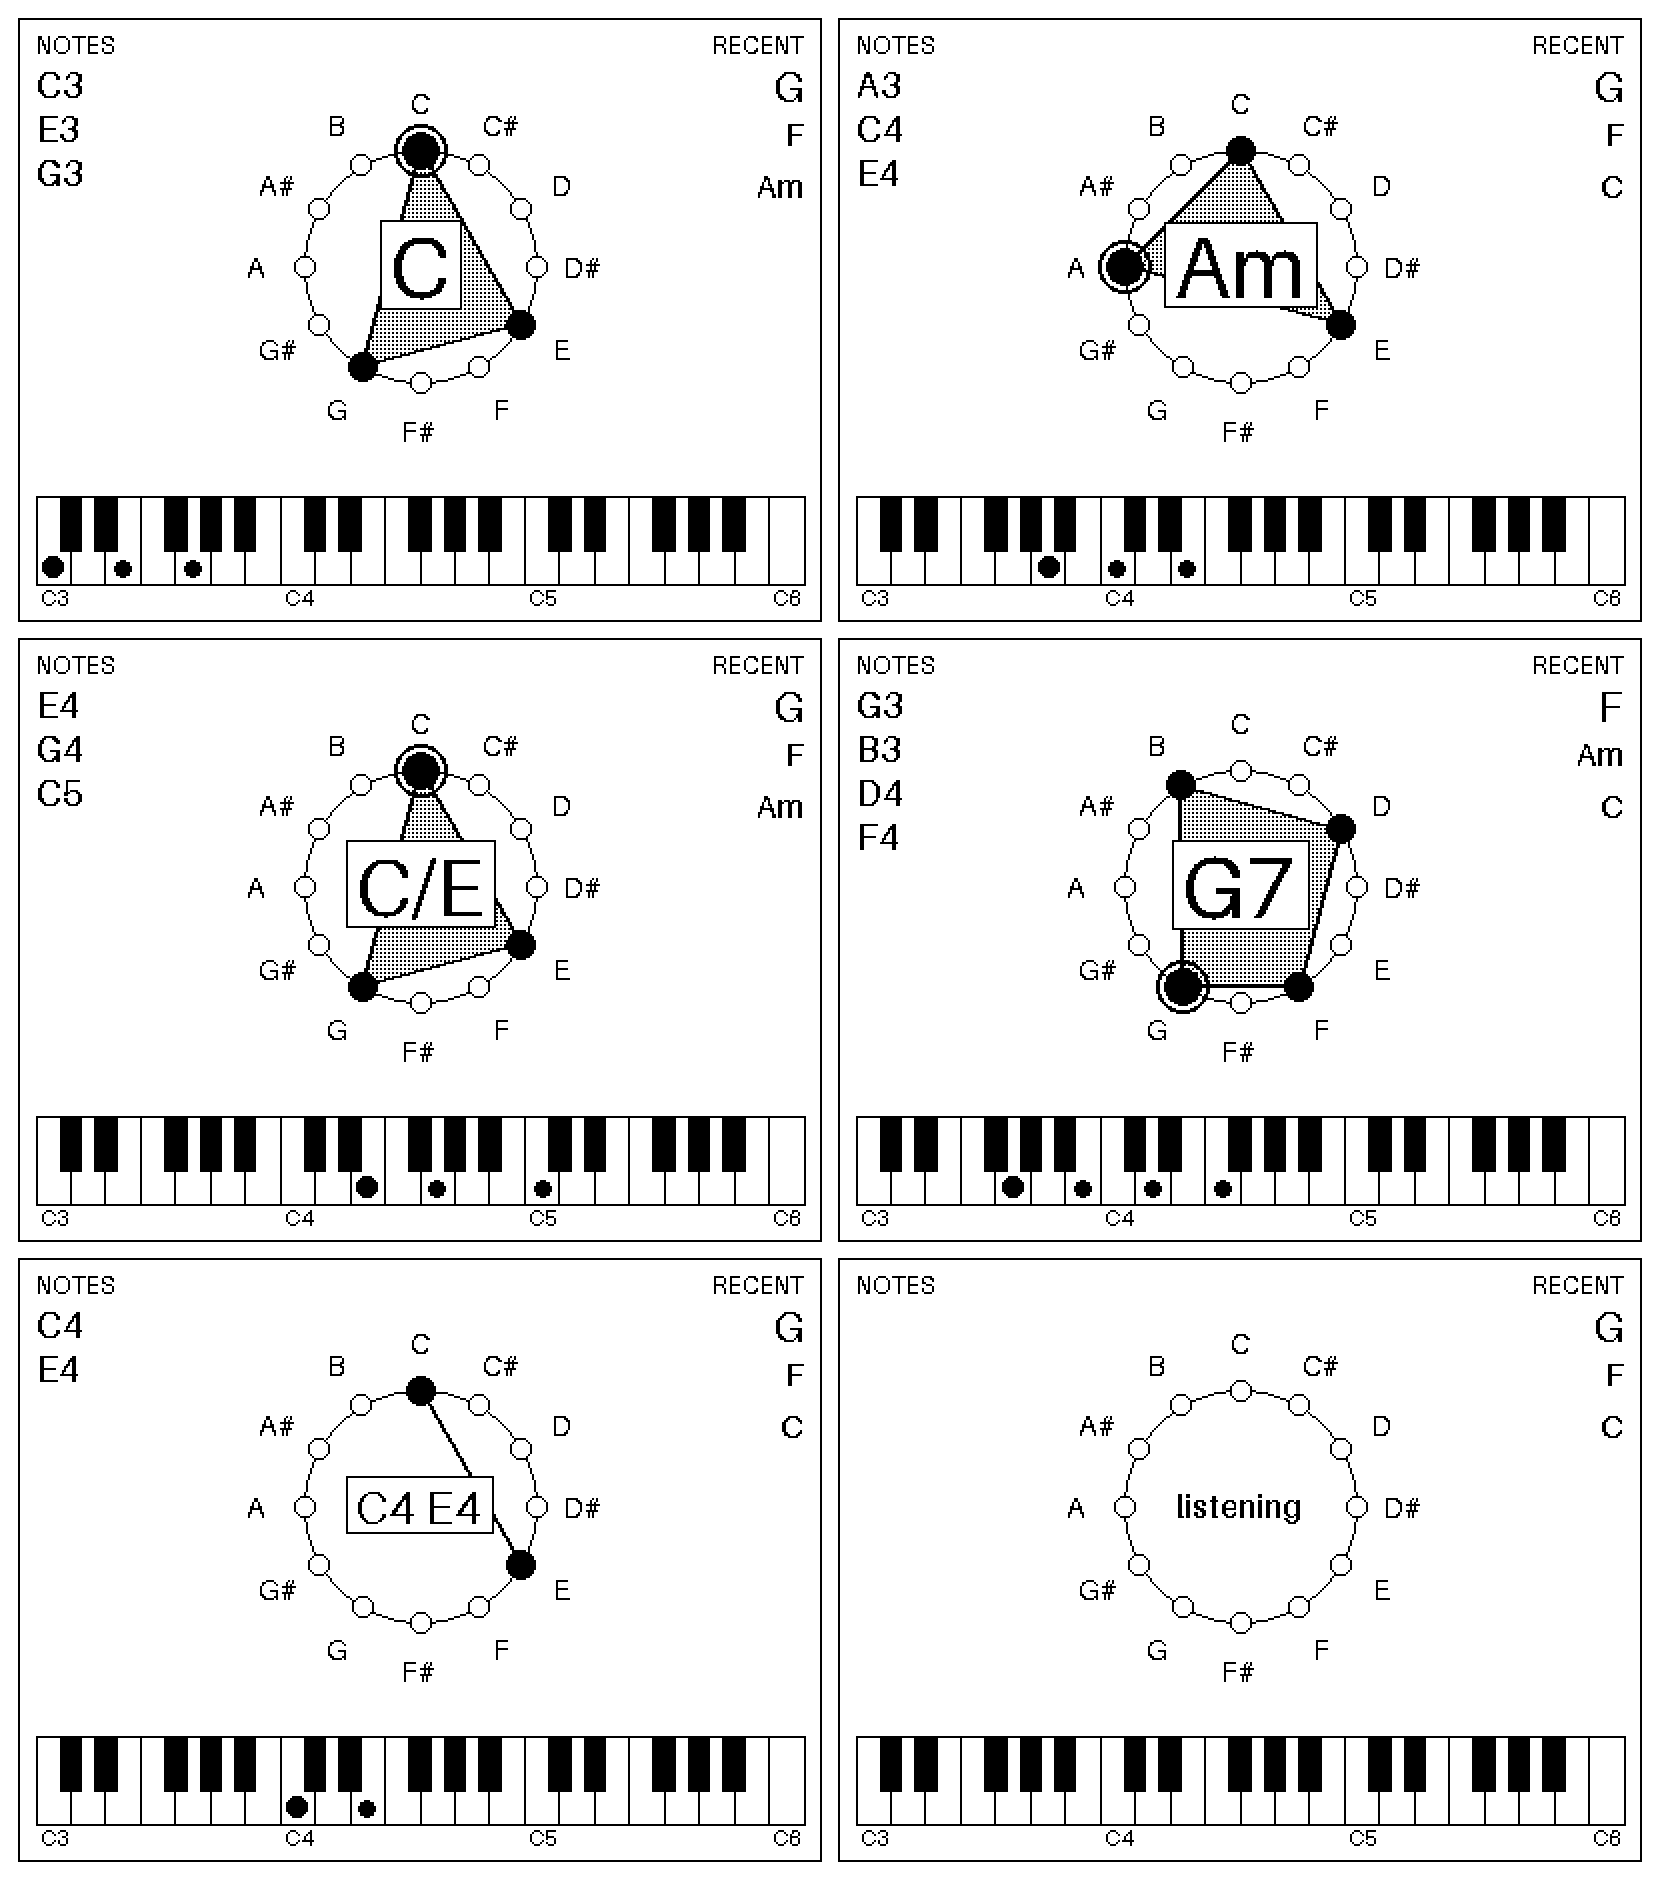
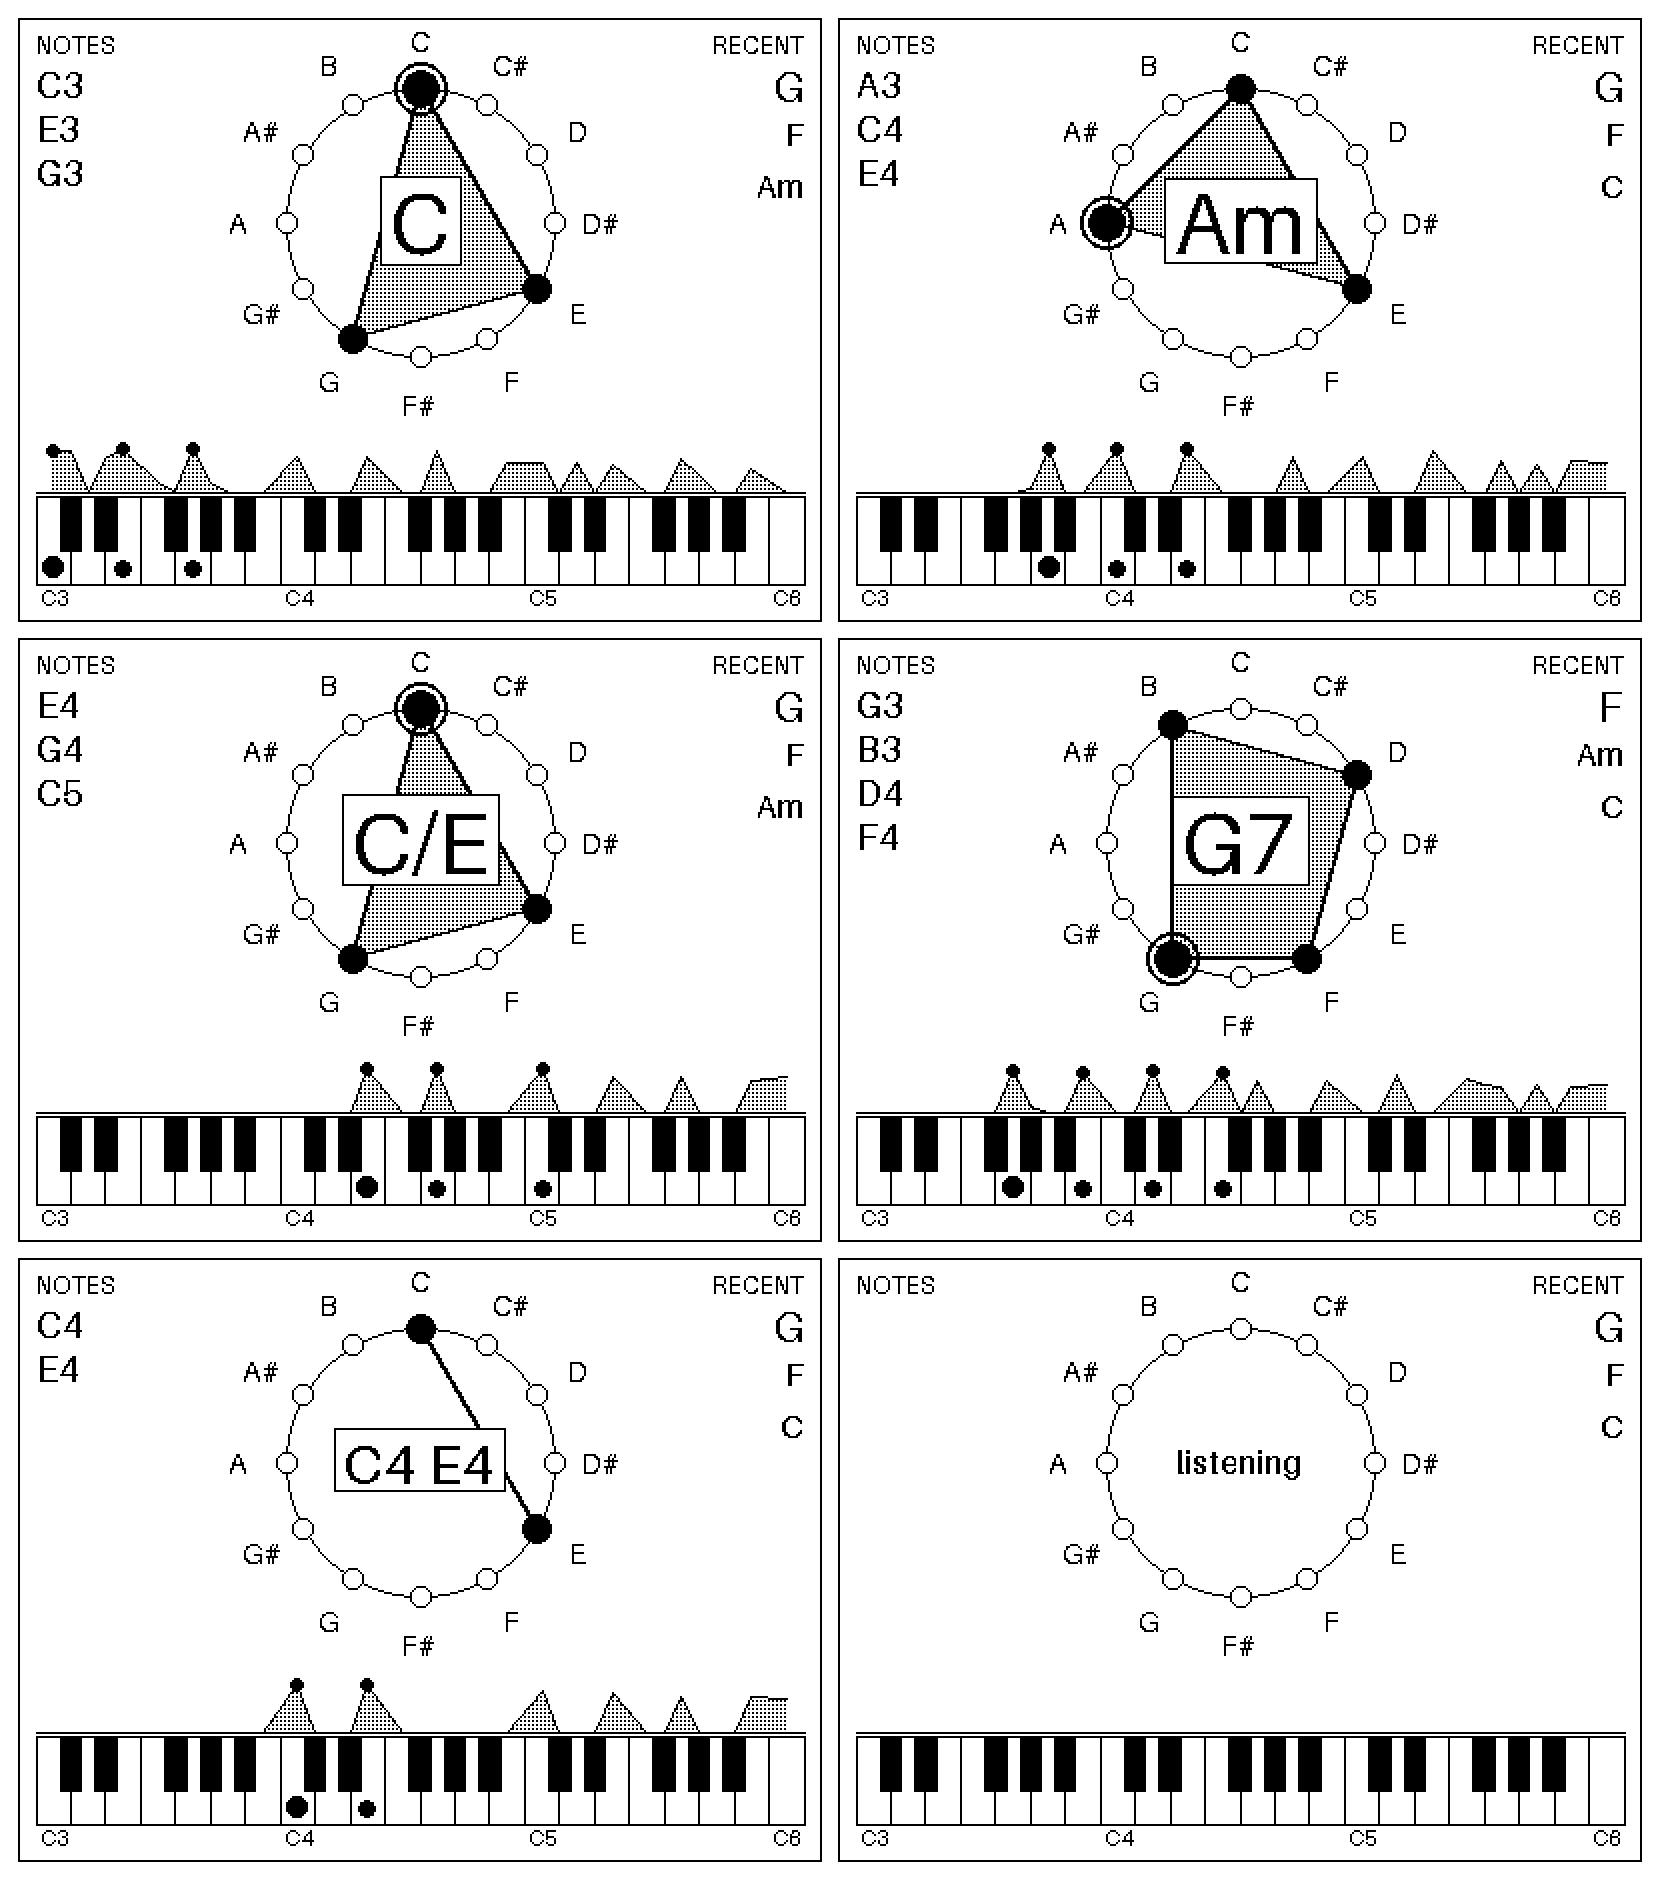
added python visualizer

diff --git a/visualizer.py b/visualizer.py
@@ -19,6 +19,7 @@ import math
 import sys
 from collections import deque
 
+import numpy as np
 from PIL import Image, ImageChops, ImageDraw, ImageFont
 
 import chord_detect as cd
@@ -56,20 +57,23 @@ def fit_size(draw, s, max_w, max_size, min_size=10):
     return min_size
 
 
+_pattern_cache = {}
+
+
+def _pattern(size, density):
+    key = (size, density >= 0.5)
+    if key not in _pattern_cache:
+        w, h = size
+        ys, xs = np.mgrid[0:h, 0:w]
+        on = ((xs + ys) % 2 == 0) if density >= 0.5 else ((xs % 2 == 0) & (ys % 2 == 0))
+        arr = np.where(on, INK, PAPER).astype(np.uint8)
+        _pattern_cache[key] = Image.fromarray(arr).convert("1")
+    return _pattern_cache[key]
+
+
 def hatch(img, mask, density):
     """Fill the masked area with an ordered-dither gray (density 0.25 or 0.5)."""
-    w, h = img.size
-    pat = Image.new("1", (w, h), PAPER)
-    px = pat.load()
-    for y in range(h):
-        for x in range(w):
-            if density >= 0.5:
-                on = (x + y) % 2 == 0
-            else:
-                on = x % 2 == 0 and y % 2 == 0
-            if on:
-                px[x, y] = INK
-    # where mask is set (1) and pattern is ink (0) -> ink
+    pat = _pattern(img.size, density)
     ink_mask = ImageChops.logical_and(mask, ImageChops.invert(pat))
     img.paste(INK, mask=ink_mask)
 
@@ -173,20 +177,58 @@ def draw_keyboard(img, draw, x0, y0, width, height, active_notes, bass_note):
                   fill=INK, font=font(11), anchor="mt")
 
 
-def render(notes, label, notes_text, history, size=(400, 300), fifths=False):
+def key_centers(x0, width):
+    """x position of every key's center (black keys sit on the boundary between whites)."""
+    n_white = sum(1 for n in range(NOTE_LO, NOTE_HI + 1) if n % 12 in WHITE_PCS)
+    kw = width / n_white
+    xs, i = {}, 0
+    for n in range(NOTE_LO, NOTE_HI + 1):
+        if n % 12 in WHITE_PCS:
+            xs[n] = x0 + (i + 0.5) * kw
+            i += 1
+        else:
+            xs[n] = x0 + i * kw          # i = whites placed so far = boundary to the right of n-1
+    return xs
+
+
+def draw_spectrum(img, draw, x0, y0, width, height, levels, active_notes):
+    """Spectrum silhouette aligned to the keyboard below: one point per key."""
+    base = y0 + height
+    draw.line([(x0, base), (x0 + width, base)], fill=INK, width=1)
+    if levels is None:
+        return
+    xs = key_centers(x0, width)
+    notes = list(range(NOTE_LO, NOTE_HI + 1))
+    pts = [(xs[n], base - float(levels[n - NOTE_LO]) * (height - 2)) for n in notes]
+    poly = [(pts[0][0], base)] + pts + [(pts[-1][0], base)]
+    mask = Image.new("1", img.size, 0)
+    ImageDraw.Draw(mask).polygon(poly, fill=255)
+    hatch(img, mask, 0.25)
+    draw.line(pts, fill=INK, width=1)
+    for n in active_notes:
+        if NOTE_LO <= n <= NOTE_HI:
+            x, y = pts[n - NOTE_LO]
+            draw.ellipse([x - 3, y - 3, x + 3, y + 3], fill=INK)
+
+
+def render(notes, label, notes_text, history, size=(400, 300), fifths=False, levels=None):
     """Draw one state. notes: MIDI list; label: chord name or note text or '-'."""
     W, H = size
     img = Image.new("1", size, PAPER)
     draw = ImageDraw.Draw(img)
     landscape = W >= H
 
-    key_h = 44
-    margin = 8
+    key_h, spec_h, margin = 44, 36, 8
     kb_y = H - key_h - 18
-    avail_h = kb_y - margin
-    radius = int(min(avail_h / 2 - 26, (W * 0.5 if landscape else W) / 2 - 42))
-    cx = W / 2
-    cy = margin + avail_h / 2 if landscape else margin + radius + 28
+    spec_y = kb_y - spec_h - 2
+    if landscape:
+        avail_h = spec_y - 6 - margin
+        radius = int(min(avail_h / 2 - 26, (W - 2 * 88) / 2 - 32))
+        cx, cy = W / 2, margin + avail_h / 2
+    else:
+        avail_h = spec_y - 24 - margin
+        radius = int(min(W / 2 - 42, avail_h / 2 - 30))
+        cx, cy = W / 2, margin + avail_h / 2
 
     active_pcs = {n % 12 for n in notes}
     chord = is_chord(label, notes_text)
@@ -195,11 +237,12 @@ def render(notes, label, notes_text, history, size=(400, 300), fifths=False):
     draw_wheel(img, draw, cx, cy, radius, active_pcs, root, fifths, font(15))
     draw_center(draw, cx, cy, label if chord else (notes_text if notes_text else "-"),
                 notes_text, int(radius * 1.15))
+    draw_spectrum(img, draw, margin, spec_y, W - 2 * margin, spec_h, levels, notes)
     draw_keyboard(img, draw, margin, kb_y, W - 2 * margin, key_h, notes, min(notes) if notes else None)
 
     if not landscape:
         # no side columns in portrait: one line of detected notes above the keyboard
-        draw.text((W / 2, kb_y - 14), notes_text, fill=INK, font=font(16), anchor="mm")
+        draw.text((W / 2, spec_y - 8), notes_text, fill=INK, font=font(16), anchor="mm")
     if landscape:
         # left: detected notes
         draw_text(draw, (margin, margin), "NOTES", 12)
@@ -214,9 +257,21 @@ def render(notes, label, notes_text, history, size=(400, 300), fifths=False):
 
 
 # ---------- preview / demo / live ----------
+def synth_levels(notes, noise=0.003, seed=0):
+    """Per-key levels for a synthetic frame of the given notes (plus mic noise)."""
+    rng = np.random.default_rng(seed)
+    y = np.zeros(cd.N_FFT)
+    for n in notes:
+        y = y + cd.piano_like(cd.midi_to_hz(n), cd.N_FFT / cd.SR)[: cd.N_FFT]
+    if notes:
+        y = y / np.max(np.abs(y)) * 0.3
+    y = y + rng.normal(0, noise, cd.N_FFT)
+    return cd.key_levels(y.astype(np.float32))
+
+
 def sample_states():
     ch = cd.chord_notes
-    return [
+    rows = [
         (ch(0, ""), "C", "C4 E4 G4", ["Am", "F", "G"]),
         ([57, 60, 64], "Am", "A3 C4 E4", ["C", "F", "G"]),
         ([64, 67, 72], "C/E", "E4 G4 C5", ["Am", "F", "G"]),
@@ -224,10 +279,11 @@ def sample_states():
         ([60, 64], "C4 E4", "C4 E4", ["C", "F", "G"]),
         ([], "-", "", ["C", "F", "G"]),
     ]
+    return [(n, lab, txt, hist, synth_levels(n)) for n, lab, txt, hist in rows]
 
 
 def save_preview(path, size, fifths, scale):
-    imgs = [render(n, lab, txt, hist, size, fifths) for n, lab, txt, hist in sample_states()]
+    imgs = [render(n, lab, txt, hist, size, fifths, lv) for n, lab, txt, hist, lv in sample_states()]
     cols = 2
     rows = (len(imgs) + cols - 1) // cols
     gap = 10
@@ -249,7 +305,7 @@ def to_surface(pygame, img, scale):
 
 
 def run_window(source, size, fifths, scale):
-    """source: generator yielding (notes, label, text) per update (None = no update)."""
+    """source: generator yielding (notes, label, text, levels) per update (None = no update)."""
     import pygame
     pygame.init()
     screen = pygame.display.set_mode((size[0] * scale, size[1] * scale))
@@ -257,6 +313,7 @@ def run_window(source, size, fifths, scale):
     clock = pygame.time.Clock()
     history, last = deque(maxlen=8), "-"
     state = ([], "-", "")
+    shown_levels = np.zeros(NOTE_HI - NOTE_LO + 1)
     running = True
     while running:
         for ev in pygame.event.get():
@@ -265,14 +322,17 @@ def run_window(source, size, fifths, scale):
         upd = next(source, "end")
         if upd == "end":
             break
+        shown_levels *= 0.92                      # release: bars fall between updates
         if upd is not None:
-            state = upd
+            state = upd[:3]
+            shown_levels = np.maximum(shown_levels, upd[3])   # attack: rise at once
             label = state[1]
             if label != "-" and label != last:
                 history.append(label)
             last = label
         notes, label, text = state
-        screen.blit(to_surface(pygame, render(notes, label, text, history, size, fifths), scale), (0, 0))
+        img = render(notes, label, text, history, size, fifths, shown_levels)
+        screen.blit(to_surface(pygame, img, scale), (0, 0))
         pygame.display.flip()
         clock.tick(30)
     pygame.quit()
@@ -283,8 +343,9 @@ def demo_source():
     while True:
         for notes in seq:
             text, label = cd.describe(notes)
-            for _ in range(45):
-                yield notes, label, text
+            levels = synth_levels(notes)
+            for i in range(45):
+                yield notes, label, text, (levels if i % 4 == 0 else np.zeros_like(levels))
 
 
 def live_source(device):
@@ -313,7 +374,7 @@ def live_source(device):
                 yield None
                 continue
             res = analyzer.push(block)
-            yield None if res is None else (list(analyzer.shown_notes), res[0], res[1])
+            yield None if res is None else (list(analyzer.shown_notes), res[0], res[1], analyzer.levels)
 
 
 def main():

diff --git a/chord_detect.py b/chord_detect.py
@@ -81,6 +81,8 @@ WEIGHT_POW = 0.5            # harmonic h is weighted h ** -WEIGHT_POW
 FUND_FRAC = 0.15            # a note's fundamental must reach this fraction of the spectrum max
 NOTE_THRESHOLD = 0.3        # stop when next note's salience < this fraction of the first
 MAX_NOTES = 6
+SPEC_FLOOR_DB = -60.0       # key_levels(): level shown as 0 (dB relative to full scale)
+SPEC_CEIL_DB = -6.0         # key_levels(): level shown as 1
 _DF = SR / N_FFT
 
 
@@ -138,6 +140,22 @@ def detect_notes(frame):
             a, b = _BANDS[(best_m, h)]
             spec[a:b] = np.maximum(spec[a:b] - p1 / h, 0)
     return sorted(found)
+
+
+def key_levels(frame):
+    """Spectrum level (0..1) at each key from NOTE_LO to NOTE_HI, for display.
+
+    Uses the same fundamental bands as detect_notes, converted to dB relative to a
+    full-scale sine and mapped between SPEC_FLOOR_DB and SPEC_CEIL_DB.
+    """
+    spec = np.abs(np.fft.rfft(frame * WINDOW))
+    ref = N_FFT / 4                      # peak magnitude of a full-scale sine with a Hann window
+    out = np.empty(NOTE_HI - NOTE_LO + 1)
+    for i, m in enumerate(range(NOTE_LO, NOTE_HI + 1)):
+        a, b = _BANDS[(m, 1)]
+        db = 20 * np.log10(max(float(spec[a:b].max()) / ref, 1e-9))
+        out[i] = np.clip((db - SPEC_FLOOR_DB) / (SPEC_CEIL_DB - SPEC_FLOOR_DB), 0.0, 1.0)
+    return out
 
 
 # Chord qualities as semitone intervals above the root, in priority order
@@ -279,6 +297,7 @@ class LiveAnalyzer:
         self.min_votes = min_votes
         self.shown = ("-", "")
         self.shown_notes = []                       # MIDI notes behind the shown label
+        self.levels = np.zeros(NOTE_HI - NOTE_LO + 1)   # latest per-key spectrum levels
 
     def push(self, block):
         self.buf = np.concatenate([self.buf, block.astype(np.float32)])[-self.need:]
@@ -292,6 +311,7 @@ class LiveAnalyzer:
             frame = np.pad(frame, (0, max(0, N_FFT - len(frame))))[:N_FFT]
         frame = frame.astype(np.float32)
         rms = float(np.sqrt(np.mean(frame ** 2)))
+        self.levels = key_levels(frame)
         notes = detect_notes(frame)
         text, label = describe(notes)
         self.hist.append((label, text, notes))
